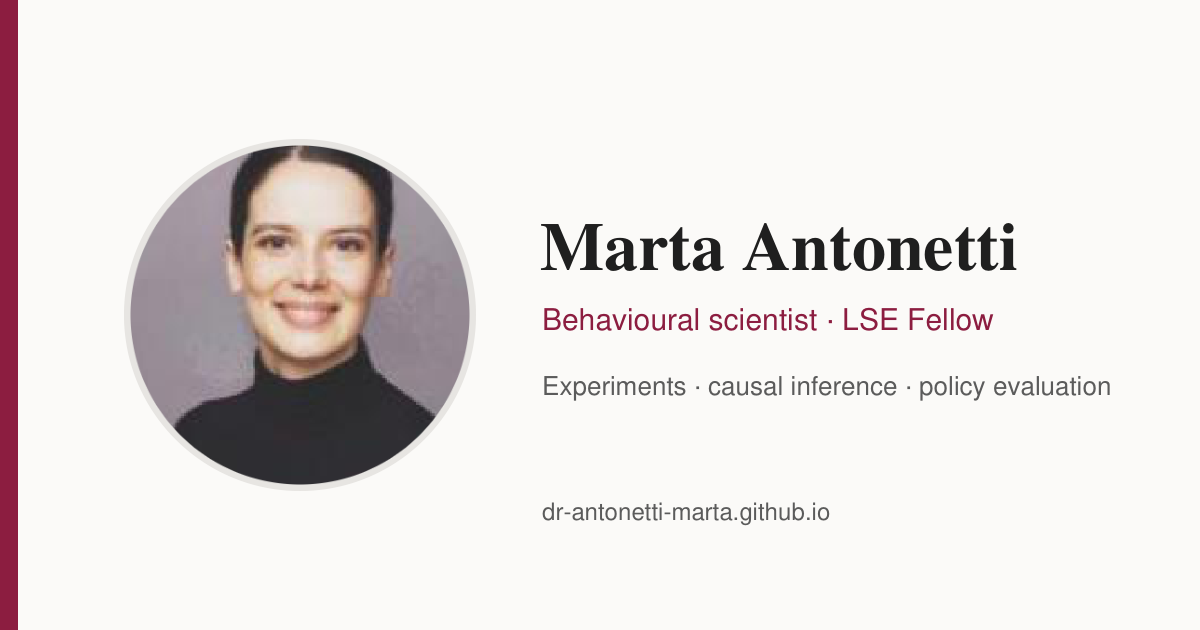
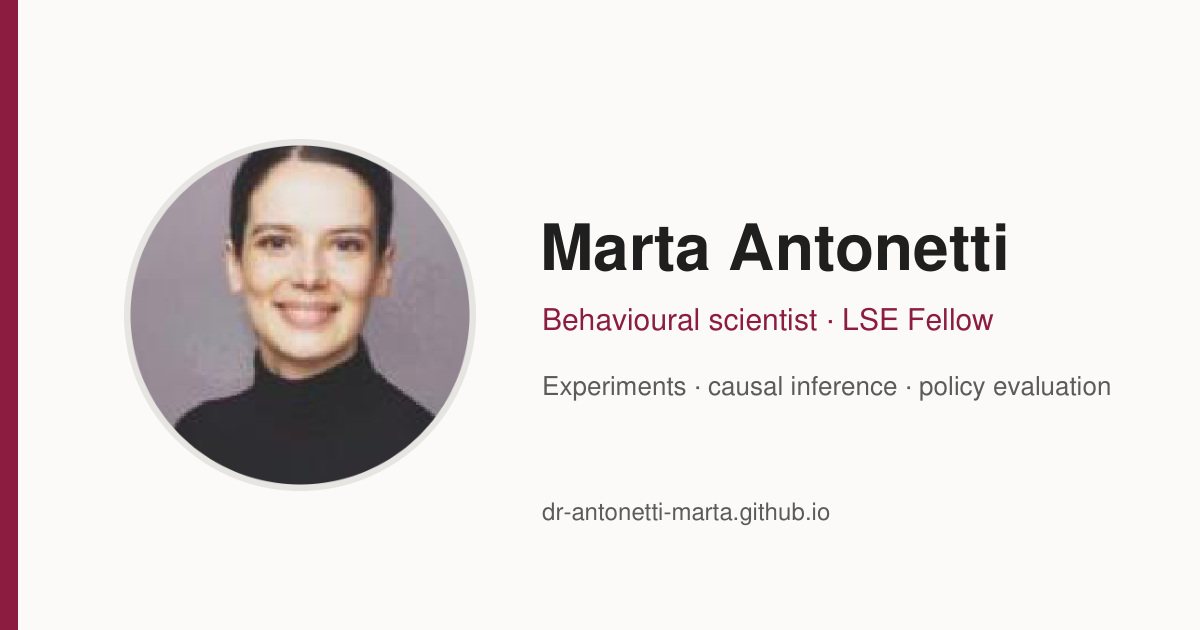
Use a single sans-serif typeface throughout

Changed region(s): [[0.4317, 0.3317, 0.8633, 0.4524]]

diff --git a/index.html b/index.html
@@ -19,12 +19,12 @@
 <meta name="twitter:card" content="summary_large_image">
 <link rel="preconnect" href="https://fonts.googleapis.com">
 <link rel="preconnect" href="https://fonts.gstatic.com" crossorigin>
-<link href="https://fonts.googleapis.com/css2?family=Source+Serif+4:opsz,wght@8..60,400;8..60,600&family=Inter:wght@400;500;600&display=swap" rel="stylesheet">
+<link href="https://fonts.googleapis.com/css2?family=Inter:wght@400;500;600;700&display=swap" rel="stylesheet">
 <style>
 :root{
   --bg:#fbfaf8; --surface:#ffffff; --text:#1f1f1f; --muted:#5b5b5b; --line:#e7e5e2;
   --accent:#8c1d40; --accent-soft:#f6e9ee;
-  --serif:"Source Serif 4",Georgia,serif; --sans:Inter,system-ui,-apple-system,sans-serif;
+  --serif:Inter,system-ui,-apple-system,sans-serif; --sans:Inter,system-ui,-apple-system,sans-serif;
 }
 @media (prefers-color-scheme: dark){
   :root:not([data-theme="light"]){
@@ -52,7 +52,7 @@ nav ul a{color:var(--muted)} nav ul a:hover{color:var(--accent); text-decoration
 /* hero */
 header.hero{padding:3.5rem 0 2.5rem; display:grid; grid-template-columns:150px 1fr; gap:2rem; align-items:start}
 .hero img{width:150px; height:150px; border-radius:50%; object-fit:cover; object-position:50% 20%; border:3px solid var(--surface); box-shadow:0 0 0 1px var(--line)}
-h1{font:600 2.3rem/1.15 var(--serif); margin:0 0 .35rem}
+h1{font:700 2.3rem/1.15 var(--serif); letter-spacing:-.02em; margin:0 0 .35rem}
 .role{color:var(--muted); margin:0 0 1rem; font-size:1rem}
 .hero p.bio{margin:0 0 1.1rem}
 .links{display:flex; flex-wrap:wrap; gap:.5rem; margin:0; padding:0; list-style:none}
@@ -61,7 +61,7 @@ h1{font:600 2.3rem/1.15 var(--serif); margin:0 0 .35rem}
 
 /* sections */
 section{padding:2.25rem 0; border-top:1px solid var(--line)}
-h2{font:600 1.55rem var(--serif); margin:0 0 1.25rem}
+h2{font:700 1.55rem var(--serif); letter-spacing:-.01em; margin:0 0 1.25rem}
 h3{font:600 .8rem var(--sans); letter-spacing:.08em; text-transform:uppercase; color:var(--muted); margin:1.75rem 0 .75rem}
 h3:first-of-type{margin-top:0}
 .intro{margin-top:0; color:var(--muted)}
